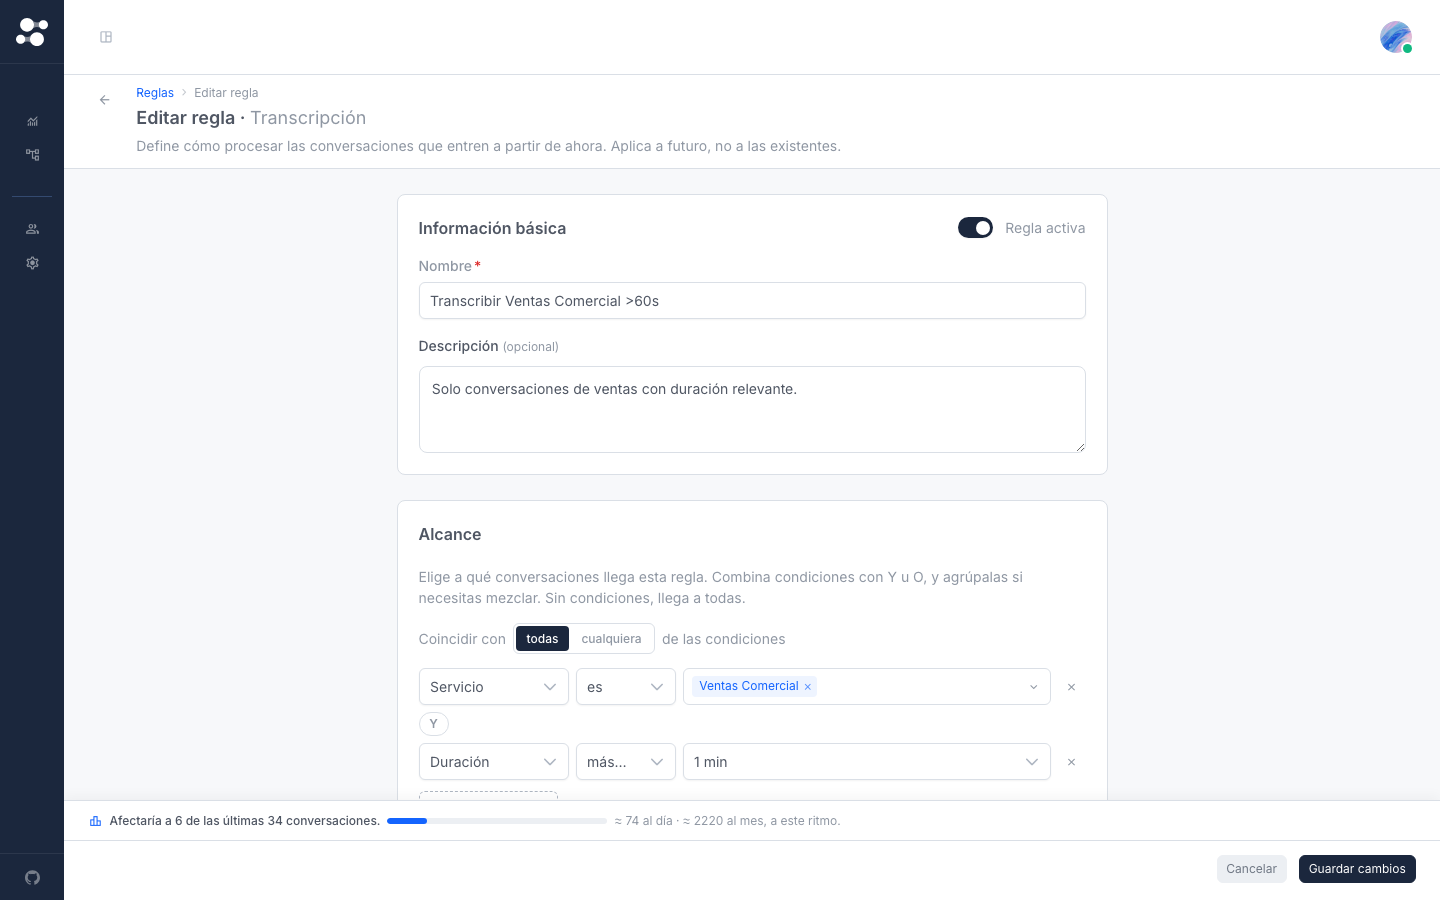
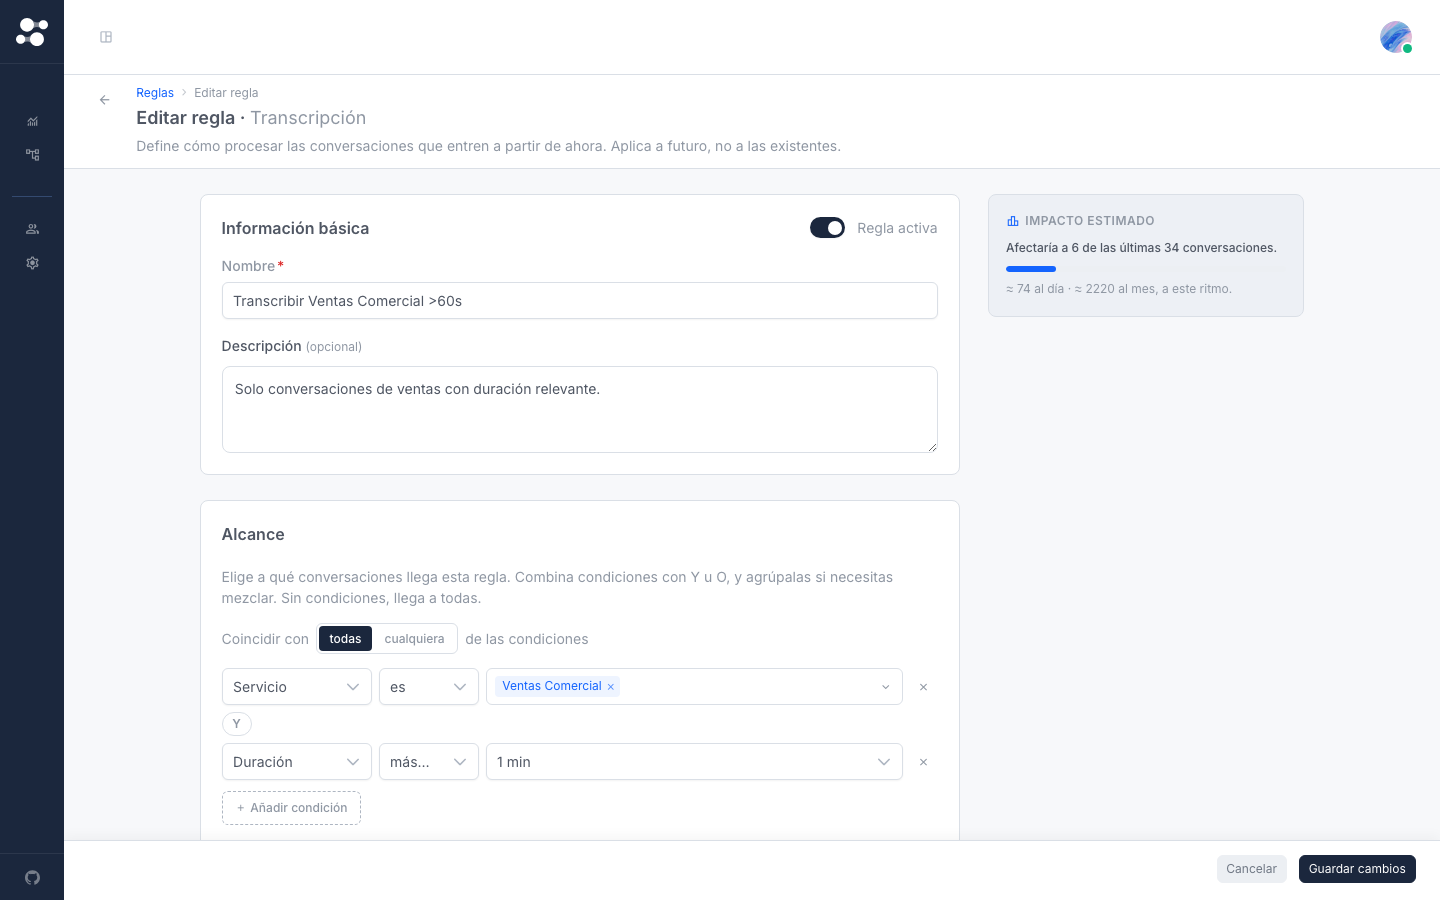
feat(reglas): estimación de impacto al panel sticky de la derecha + quita "caso del jefe" del ejemplo
Builder (supervisor): "Afectaría a N de M conversaciones" (+ barra + proyección día/mes) sale del dock
inferior y vive en un panel "Impacto estimado" FIJO (sticky) a la derecha del formulario; el dock se
queda solo con Cancelar/Guardar + la guía de errores. En estrecho el panel pasa arriba (sticky). Nueva
clave i18n cond.impact_title. Re-capturada la pantalla del recorrido /reglas + prosa actualizada.
Quita "Caso del jefe"/"PPT" del ejemplo de regla compuesta (descripción + comentarios).

diff --git a/projects/supervisor/src/app/features/memory/pages/rule-builder/rule-builder-page.component.scss b/projects/supervisor/src/app/features/memory/pages/rule-builder/rule-builder-page.component.scss
@@ -103,21 +103,50 @@
     }
   }
 
-  &__body {
+  /* Zona central: el formulario (scrollea con la página) + el aside fijo de impacto. */
+  &__main {
     flex: 1;
-    overflow-y: auto;
+    display: flex;
+    align-items: flex-start;
+    justify-content: center;
+    gap: var(--sc-spacing-2);
     padding: var(--sc-spacing-1-75);
+  }
+
+  &__body {
+    flex: 1 1 760px;
+    min-width: 0;
+    max-width: 760px;
     display: flex;
     flex-direction: column;
     gap: var(--sc-spacing-1-75);
-    max-width: 760px;
-    margin: 0 auto;
-    width: 100%;
   }
 
-  /* Dock inferior STICKY: barra de impacto siempre visible + acciones. La
-   * "Estimación de procesado" vive aquí (no en el builder) porque `sticky` solo
-   * funciona a nivel de página — junto a la acción, decides viendo el impacto. */
+  /* Impacto SIEMPRE visible a la derecha: sticky al scroll de página, junto al
+   * formulario (ya no en el dock). align-self para que pueda pegarse. */
+  &__aside {
+    position: sticky;
+    top: var(--sc-spacing-1-75);
+    align-self: flex-start;
+    flex: none;
+    width: clamp(15rem, 22vw, 20rem);
+  }
+
+  /* En estrecho, el panel pasa arriba (sticky) y el formulario debajo. */
+  @media (max-width: 60rem) {
+    &__main {
+      flex-direction: column;
+      align-items: stretch;
+    }
+    &__aside {
+      width: auto;
+      order: -1;
+      top: 0;
+    }
+  }
+
+  /* Dock inferior STICKY: solo las acciones (cancelar / guardar) + la guía de
+   * errores. La estimación de impacto vive en el aside derecho (sticky). */
   &__dock {
     position: sticky;
     bottom: 0;
@@ -138,32 +167,43 @@
     padding: var(--sc-spacing-1) var(--sc-spacing-1-75) var(--sc-spacing-1-25);
   }
 
-  /* Barra de impacto compacta (horizontal) encima de las acciones. */
+  /* Panel de impacto (vertical) en el aside derecho. */
   &__impact {
     display: flex;
-    align-items: center;
-    flex-wrap: wrap;
-    gap: var(--sc-spacing-0-5);
-    padding: var(--sc-spacing-0-75) var(--sc-spacing-1-75);
+    flex-direction: column;
+    gap: var(--sc-spacing-0-625);
+    padding: var(--sc-spacing-1-25);
+    background: var(--sc-bg-subtle);
+    border: 1px solid var(--sc-border-default);
+    border-radius: var(--sc-radius-lg);
     font-size: var(--sc-font-size-100);
     color: var(--sc-text-secondary);
-    border-bottom: 1px solid var(--sc-border-default);
   }
 
-  &__impact-ic {
-    flex-shrink: 0;
-    color: var(--sc-color-sky-500);
+  &__impact-label {
+    display: flex;
+    align-items: center;
+    gap: var(--sc-spacing-0-375);
+    margin: 0;
+    font-size: var(--sc-font-size-50);
+    font-weight: 600;
+    letter-spacing: 0.04em;
+    text-transform: uppercase;
+    color: var(--sc-text-secondary);
+
+    sc-icon {
+      color: var(--sc-color-sky-500);
+    }
   }
 
   &__impact-main {
+    margin: 0;
     color: var(--sc-text-primary);
     font-weight: 500;
   }
 
   &__impact-bar {
-    flex: 1;
-    min-width: 80px;
-    max-width: 220px;
+    width: 100%;
     height: 6px;
     border-radius: var(--sc-radius-full);
     background: var(--sc-color-slate-100, var(--sc-color-slate-50));
@@ -180,19 +220,22 @@
   }
 
   &__impact-proj {
+    margin: 0;
     color: var(--sc-text-secondary);
   }
 
   &__impact-note {
+    margin: 0;
     font-size: var(--sc-font-size-50);
     font-style: italic;
     color: var(--sc-text-secondary);
   }
 
   &__impact-empty {
-    display: inline-flex;
-    align-items: center;
-    gap: var(--sc-spacing-0-25);
+    display: flex;
+    align-items: flex-start;
+    gap: var(--sc-spacing-0-375);
+    margin: 0;
     color: var(--sc-text-warning);
 
     sc-icon {

diff --git a/projects/supervisor/src/app/features/memory/pages/rule-builder/rule-builder-page.component.html b/projects/supervisor/src/app/features/memory/pages/rule-builder/rule-builder-page.component.html
@@ -34,7 +34,8 @@
     </div>
   </header>
 
-  <div class="rule-builder__body">
+  <div class="rule-builder__main">
+    <div class="rule-builder__body">
     <!-- Bloque 1: Metadatos -->
     <section class="rule-block">
       <header class="rule-block__head">
@@ -178,36 +179,42 @@
     }
   </div>
 
-  <div class="rule-builder__dock">
-    <div class="rule-builder__impact" aria-live="polite">
-      @if (showEmptyImpact()) {
-        <span class="rule-builder__impact-empty">
-          <sc-icon name="warning" [size]="14" aria-hidden="true" />
-          {{ 'memory.rules.builder.cond.val.impact_zero' | translate: { total: impactTotal() } }}
-        </span>
-      } @else {
-        <sc-icon class="rule-builder__impact-ic" name="leaderboard" [size]="14" aria-hidden="true" />
-        <span class="rule-builder__impact-main">
-          {{ 'memory.rules.builder.cond.impact' | translate: { count: impactCount(), total: impactTotal() } }}
-        </span>
-        @if (hasUnevaluable()) {
-          <span class="rule-builder__impact-note">
-            {{ 'memory.rules.builder.cond.impact_note' | translate }}
-          </span>
+    <aside class="rule-builder__aside">
+      <div class="rule-builder__impact" aria-live="polite">
+        <p class="rule-builder__impact-label">
+          <sc-icon name="leaderboard" [size]="14" aria-hidden="true" />
+          {{ 'memory.rules.builder.cond.impact_title' | translate }}
+        </p>
+        @if (showEmptyImpact()) {
+          <p class="rule-builder__impact-empty">
+            <sc-icon name="warning" [size]="14" aria-hidden="true" />
+            {{ 'memory.rules.builder.cond.val.impact_zero' | translate: { total: impactTotal() } }}
+          </p>
         } @else {
-          <div class="rule-builder__impact-bar" aria-hidden="true">
-            <span class="rule-builder__impact-bar-fill" [style.width.%]="impactPct()"></span>
-          </div>
-          <span class="rule-builder__impact-proj">
-            {{
-              'memory.rules.builder.cond.est_projection'
-                | translate: { day: fmt(estimate().perDay), month: fmt(estimate().perMonth) }
-            }}
-          </span>
+          <p class="rule-builder__impact-main">
+            {{ 'memory.rules.builder.cond.impact' | translate: { count: impactCount(), total: impactTotal() } }}
+          </p>
+          @if (hasUnevaluable()) {
+            <p class="rule-builder__impact-note">
+              {{ 'memory.rules.builder.cond.impact_note' | translate }}
+            </p>
+          } @else {
+            <div class="rule-builder__impact-bar" aria-hidden="true">
+              <span class="rule-builder__impact-bar-fill" [style.width.%]="impactPct()"></span>
+            </div>
+            <p class="rule-builder__impact-proj">
+              {{
+                'memory.rules.builder.cond.est_projection'
+                  | translate: { day: fmt(estimate().perDay), month: fmt(estimate().perMonth) }
+              }}
+            </p>
+          }
         }
-      }
-    </div>
+      </div>
+    </aside>
+  </div>
 
+  <div class="rule-builder__dock">
     <footer class="rule-builder__foot">
       @if (submitted() && condBlocking()) {
         <p class="rule-builder__save-blocked">

diff --git a/projects/supervisor/src/app/features/memory/data/rules-mock.ts b/projects/supervisor/src/app/features/memory/data/rules-mock.ts
@@ -5,8 +5,8 @@ import type { Rule } from './rule.types';
  *
  * MVP sin priorización ni grabación (obsoleta por ley) → solo reglas de
  * transcripción / clasificación. Sin borradores. **Solo una activa a la vez**:
- * la #1 está activa y el resto inactivas. La #4 reproduce el caso compuesto de
- * la PPT (grupo + tipificación + duración) — se edita para ver el árbol completo.
+ * la #1 está activa y el resto inactivas. La #4 es un ejemplo compuesto (grupo +
+ * tipificación + duración) — se edita para ver el árbol de condiciones completo.
  */
 export const MOCK_RULES: readonly Rule[] = [
   {
@@ -100,12 +100,12 @@ export const MOCK_RULES: readonly Rule[] = [
     lastModified: '2026-05-15T08:20:00Z',
   },
   {
-    /* Caso compuesto de la PPT: servicio Ventas Comercial Y grupo Ventas Y
+    /* Ejemplo compuesto: servicio Ventas Comercial Y grupo Ventas Y
      * (tipificación venta O incidencia) Y duración entre 1 y 30 min. */
     id: 4,
     type: 'transcription',
     name: 'Transcribir Ventas: venta o incidencia (1–30 min)',
-    description: 'Caso del jefe — servicio Ventas Comercial, grupo Ventas, tipificación venta o incidencia, y duración entre 1 y 30 minutos.',
+    description: 'Servicio Ventas Comercial, grupo Ventas, tipificación venta o incidencia, y duración entre 1 y 30 minutos.',
     servicios: ['Ventas Comercial'],
     grupos: ['Ventas'],
     agentes: [],

diff --git a/projects/sc-demo/src/app/pages/reglas/rules-walkthrough.component.html b/projects/sc-demo/src/app/pages/reglas/rules-walkthrough.component.html
@@ -253,7 +253,7 @@
   <section class="step" id="paso-6">
     <h2><span class="step__n">06</span> Lo que se ganó: una estimación en vivo</h2>
     <p>
-      No todo fue quitar. Mientras montas una regla, el pie del constructor te dice a cuántas conversaciones
+      No todo fue quitar. Mientras montas una regla, un panel fijo a la derecha te dice a cuántas conversaciones
       afectaría: «<strong>Afectaría a N de las últimas M conversaciones</strong>», con una barra de proporción
       (amplia frente a quirúrgica) y una proyección «≈ N al día». Es una <strong>estimación</strong> sobre el
       histórico, no un dato cerrado —y es honesta: cuenta de verdad cuántas casan.